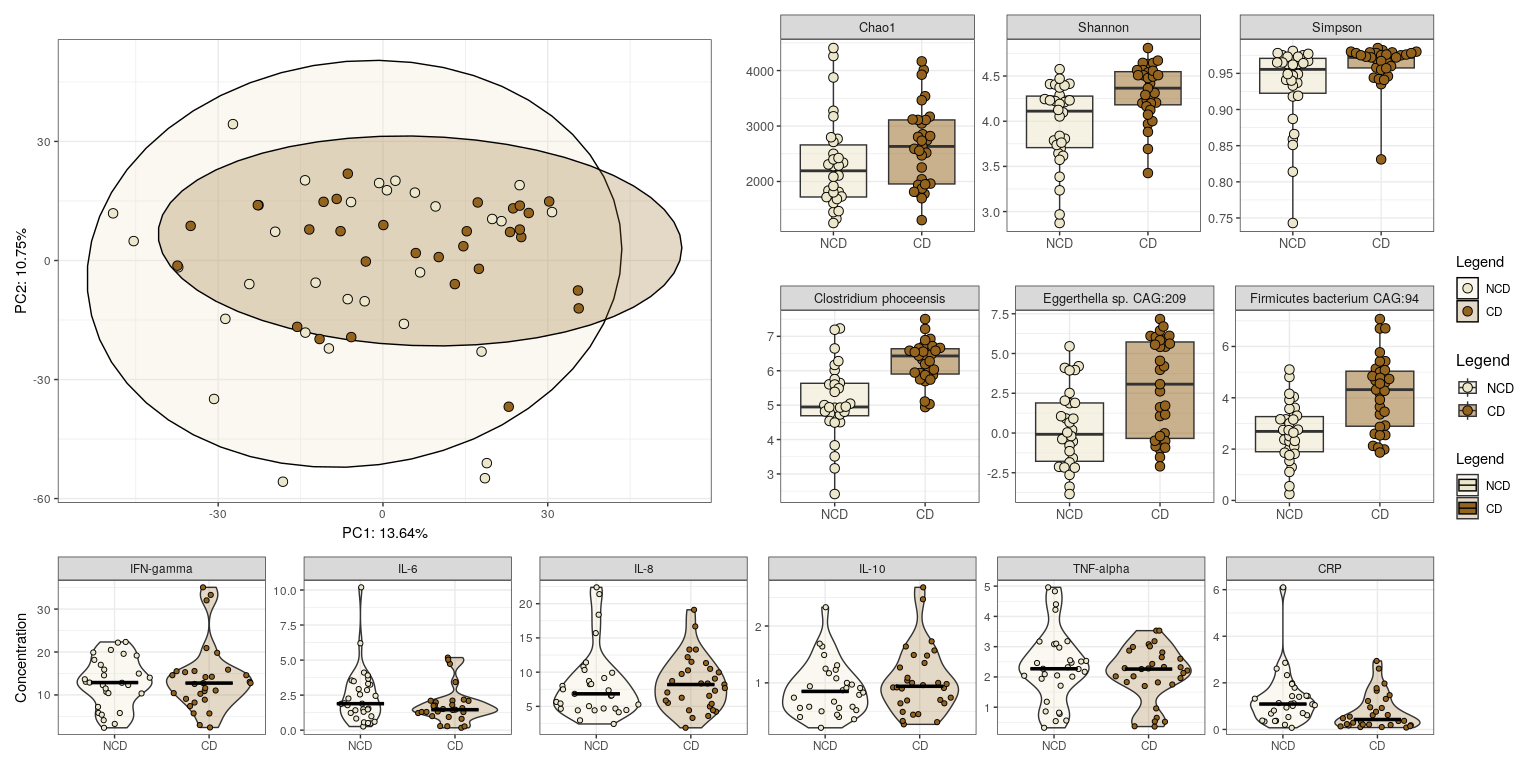
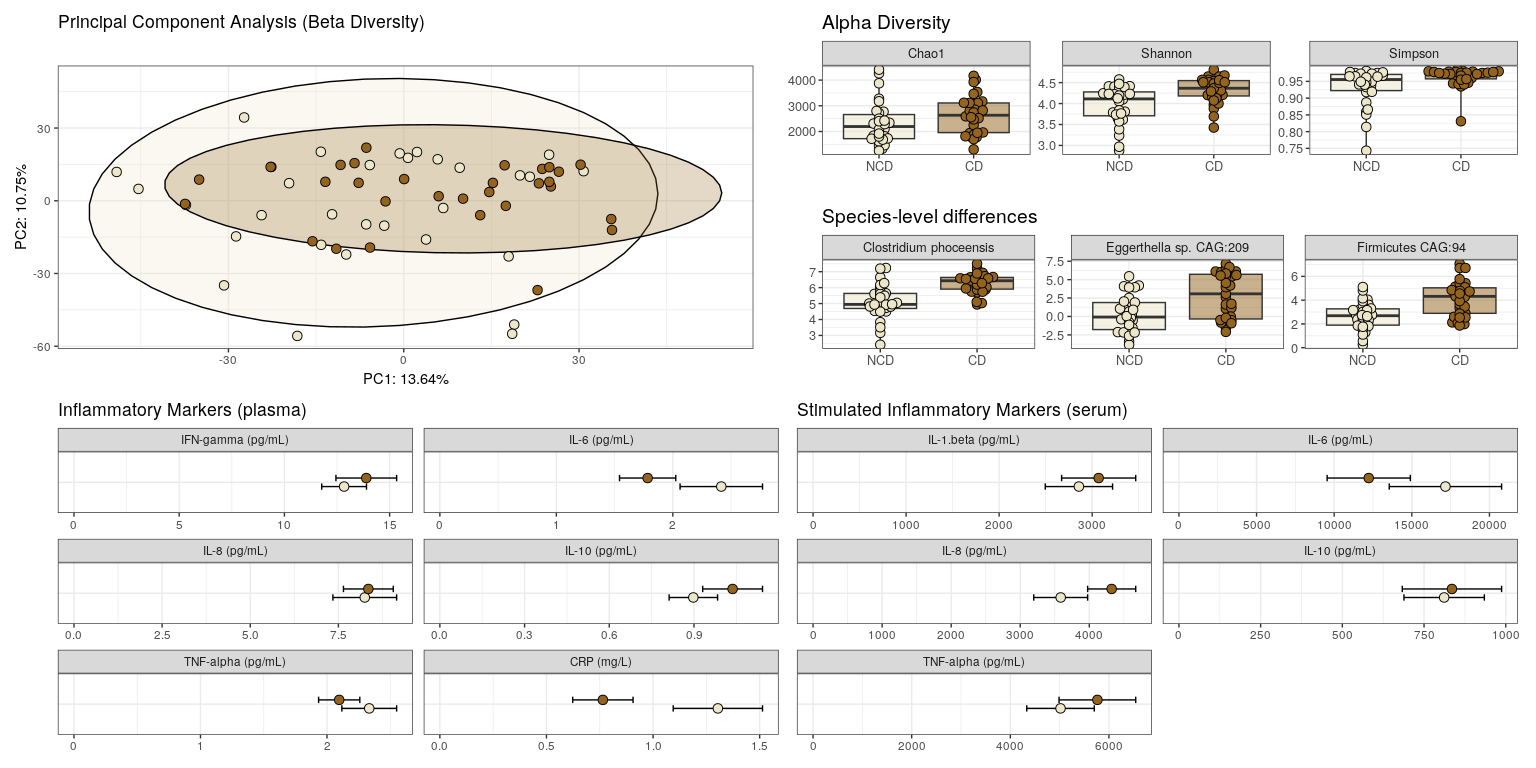
update

diff --git a/README.md b/README.md
@@ -9,7 +9,7 @@ source("scripts/ex1_baseline_differences_CD_vs_NCD.R")
 ```
 
 ``` r
-(ex1pca | (ex1alpha / ex1DA)) / ex1_cyt + plot_layout(guides = 'collect', heights = c(3,1))
+ex1_top
 ```
 
 ![](README_files/figure-gfm/unnamed-chunk-2-1.png)<!-- -->
@@ -20,6 +20,12 @@ ex1_metab_forest_a + ex1_metab_forest_b  + plot_layout(guides = 'collect') +
 ```
 
 ![](README_files/figure-gfm/unnamed-chunk-3-1.png)<!-- -->
+
+``` r
+ex1_top + ex1_metab_forest + plot_layout(guides = 'collect', heights = c(1, 1, 2))
+```
+
+![](README_files/figure-gfm/unnamed-chunk-4-1.png)<!-- -->
 
 In Experiment 2B, we’re looking at features that return to non-coffee
 drinker levels post washout (coffee abstinence).
@@ -32,14 +38,14 @@ source("scripts/ex_RESTORATION_coffee_analysis_post_washout_normalisation.R")
 ex_RESTpca + ex_RESTalpha / ex_RESTDA + plot_layout(guides = 'collect')
 ```
 
-![](README_files/figure-gfm/unnamed-chunk-5-1.png)<!-- -->
+![](README_files/figure-gfm/unnamed-chunk-6-1.png)<!-- -->
 
 ``` r
 ex_REST_metab_forest_a + ex_REST_metab_forest_b + plot_layout(guides = 'collect') + 
   plot_annotation(title = "Differentially abundant faecal metabolites between non-coffee drinkers and coffee drinkers post-washout (L) vs baseline coffee drinker levels (R)")
 ```
 
-![](README_files/figure-gfm/unnamed-chunk-6-1.png)<!-- -->
+![](README_files/figure-gfm/unnamed-chunk-7-1.png)<!-- -->
 
 In Experiment 3, we’re looking at the effects of going back on either
 caffeinated or decaffeinated coffee post-washout (coffee abstinence).
@@ -52,13 +58,13 @@ source("scripts/ex3_intervention_v3_vs_v4.R")
 ex3pca + ex3alpha + plot_layout(guides = 'collect')
 ```
 
-![](README_files/figure-gfm/unnamed-chunk-8-1.png)<!-- -->
+![](README_files/figure-gfm/unnamed-chunk-9-1.png)<!-- -->
 
 ``` r
 ex3metab
 ```
 
-![](README_files/figure-gfm/unnamed-chunk-8-2.png)<!-- -->
+![](README_files/figure-gfm/unnamed-chunk-9-2.png)<!-- -->
 
 In this additional microbiome experiment, we’re looking at the acute
 effects of coffee abstinence (coffee withdrawal).
@@ -71,7 +77,7 @@ source("scripts/ex_washout_acute_withdrawal.R")
 ex_withdrawpca + ex_withdrawalpha + plot_layout(guides = 'collect')
 ```
 
-![](README_files/figure-gfm/unnamed-chunk-10-1.png)<!-- -->
+![](README_files/figure-gfm/unnamed-chunk-11-1.png)<!-- -->
 
 In this additional microbiome experiment, we’re looking at the acute
 effects of going back on either caffeinated or decaffeinated coffee
@@ -81,12 +87,16 @@ post-washout (coffee abstinence).
 source("scripts/ex_INTERVENTION_acute_recaf_or_decaf.R")
 ```
 
+![](README_files/figure-gfm/unnamed-chunk-12-1.png)<!-- -->![](README_files/figure-gfm/unnamed-chunk-12-2.png)<!-- -->
+
     ## [1] "Using the following formula: x ~ Legend_ex_INTERVENTION + Treatment + (1 | participant_ID) + "
     ## [2] "Using the following formula:     Legend_ex_INTERVENTION:Treatment"                            
     ## [1] "Adjusting for FDR using Benjamini & Hochberg's procedure."
+
+![](README_files/figure-gfm/unnamed-chunk-12-3.png)<!-- -->
 
 ``` r
 ex_INTERVENTIONpca + ex_INTERVENTIONalpha + ex_INTERVENTIONDA_GBM + ex_INTERVENTIONDA_GMM +  plot_layout(guides = 'collect', heights = c(1,1,2,2))
 ```
 
-![](README_files/figure-gfm/unnamed-chunk-12-1.png)<!-- -->
+![](README_files/figure-gfm/unnamed-chunk-13-1.png)<!-- -->
